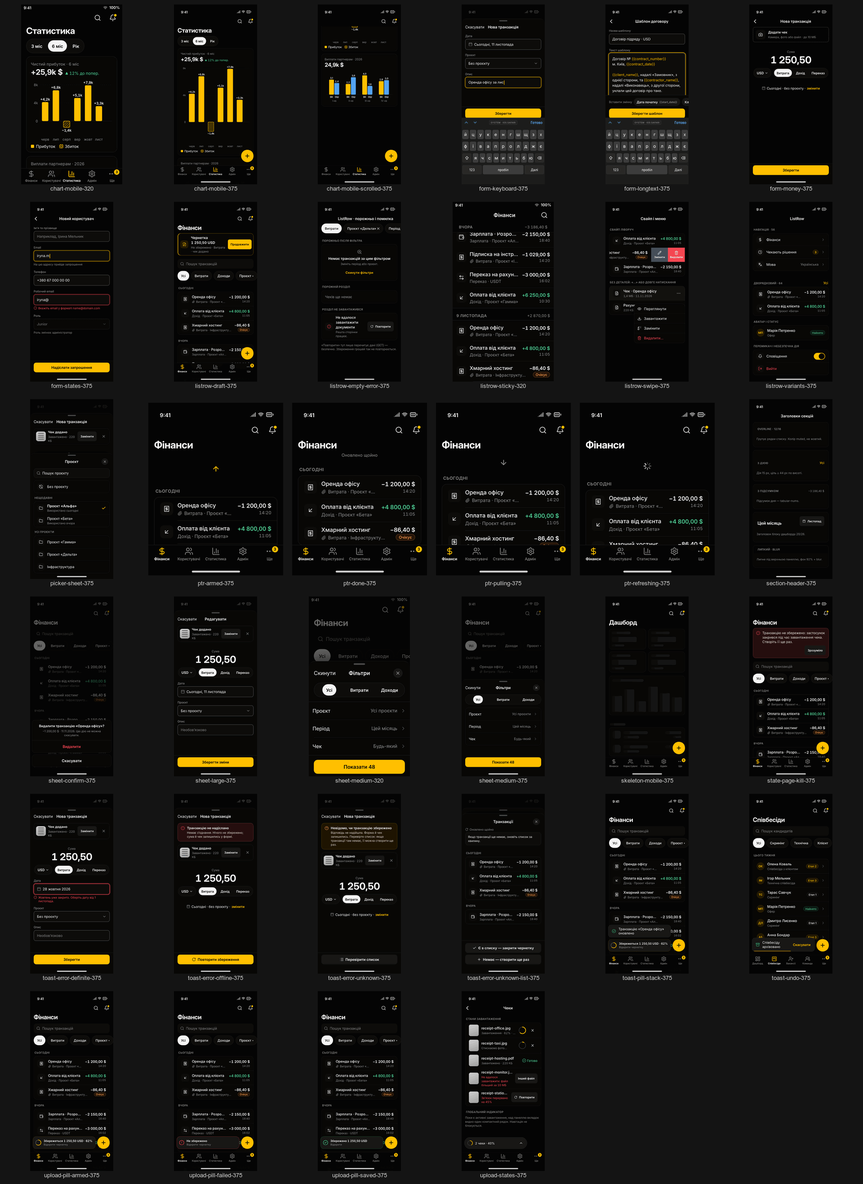
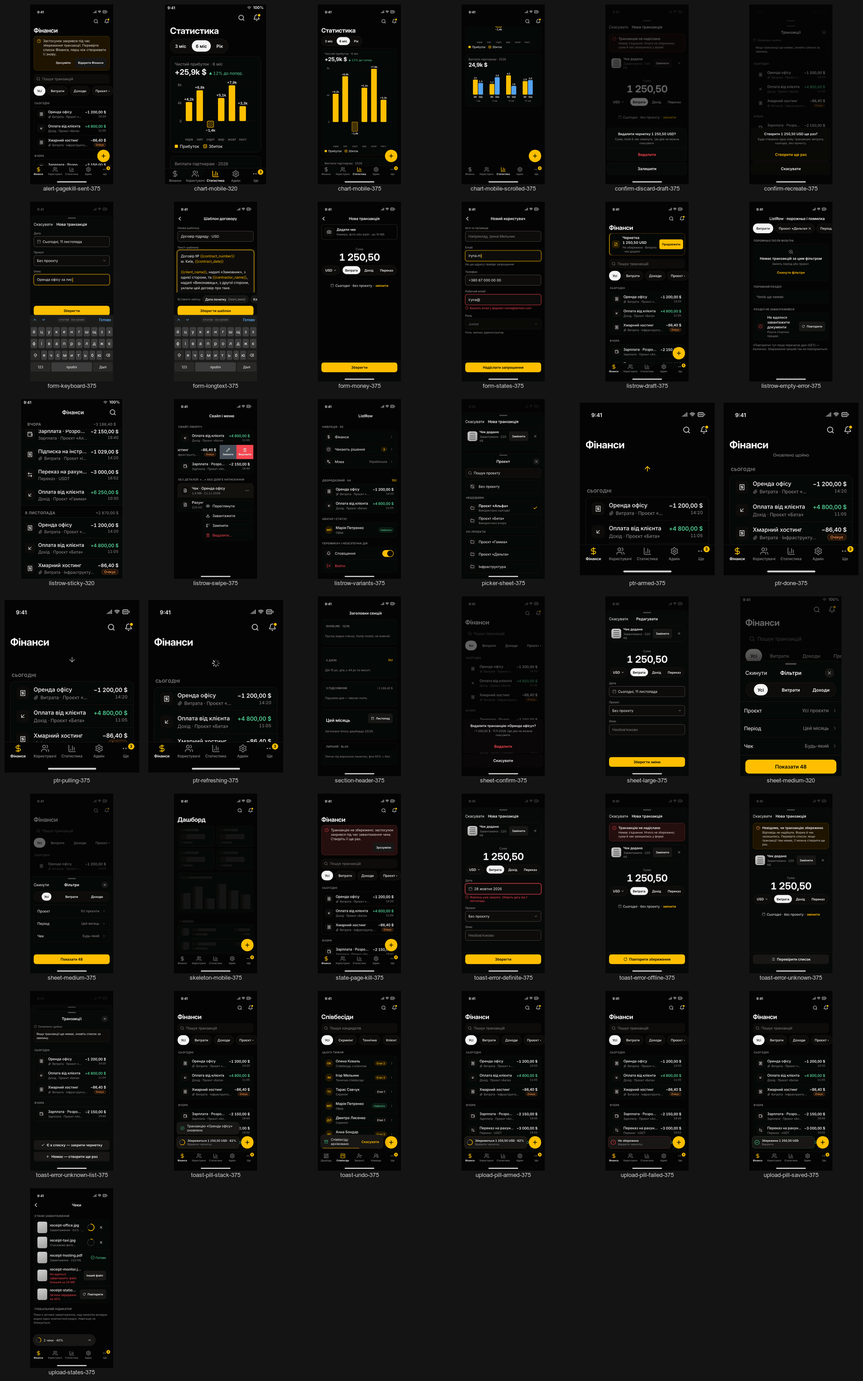
docs(design): page-kill marker phase, recreate + discard confirms
Fix round 5 (Master ruling on the fix4 page-kill concern):
- The page-kill marker is { t, phase: 'armed' | 'sent' }, still no amount,
  payload or receipt. Written armed on arm, switched to sent when the armed
  create is sent, removed on a definite result, disarm, «Є в списку»,
  explicit discard, or an acknowledged boot alert; an unknown outcome keeps
  it sent. foundation §11 splits the page-kill row into kill-while-armed and
  kill-while-sent; primitives and shell text follow the same meaning.
- New frames: alert-pagekill-sent-375 (check the list, no resubmit),
  confirm-recreate-375, confirm-discard-draft-375. Both confirms use the
  action-sheet confirm primitive (actionConfirm, now also behind
  sheet-confirm-375), 56 px rows, stacked above the open sheet.
- Primitives frame list at 55; phone contact sheet refreshed.

ac_verified: n/a (docs)

diff --git a/docs/design/foundation.md b/docs/design/foundation.md
@@ -351,24 +351,31 @@ reference widths below. Mobile-first: the base is mobile, scale up with `sm` / `
   «Зберегти після завантаження чека». A tap **freezes the payload** and arms. The table below is the
   single source; every frame and every other paragraph agrees with it.
 
-  | Event                                                                             | Button / pill / list show                                                                                                                                                                                                                                                                                                                                                                                               | What is sent                                                                                   | How the user leaves                                                                                                                                                         |
-  | --------------------------------------------------------------------------------- | ----------------------------------------------------------------------------------------------------------------------------------------------------------------------------------------------------------------------------------------------------------------------------------------------------------------------------------------------------------------------------------------------------------------------- | ---------------------------------------------------------------------------------------------- | --------------------------------------------------------------------------------------------------------------------------------------------------------------------------- |
-  | **Arm** (tap the primary while the receipt uploads)                               | Primary «Збережеться 1 250,50 USD після чека», «чек 62%» as a `progressbar`; one announcement «Збереження заплановано». Under it the 44 px text button «Не зберігати автоматично». The leading control reads **«Згорнути»** (`shell-v2/quick-add-txn-armed-375.png`, `-320.png`). Repeat taps on the primary are ignored: no toggle, no `aria-pressed`. A `localStorage` marker holding **only a timestamp** is written | Nothing yet; the payload is frozen in memory                                                   | «Згорнути», a drag down or a scrim tap all close the sheet and keep the save armed (next row)                                                                               |
-  | **Edit** (any field), **«Не зберігати автоматично»**, or the receipt upload fails | The primary returns to «Зберегти після завантаження чека»; one announcement «Автоматичне збереження вимкнено»; the leading control reads «Скасувати» again; the marker is removed                                                                                                                                                                                                                                       | Nothing; the upload continues                                                                  | Stays in the form; the draft is kept                                                                                                                                        |
-  | **Dismiss** while armed                                                           | The sheet closes. The upload pill reads «Збережеться 1 250,50 USD · 62%» · «Відкрити чернетку» (`primitives-v2/upload-pill-armed-375.png`); a toast stacks above it (`toast-pill-stack-375.png`)                                                                                                                                                                                                                        | Nothing until the receipt reaches 100%; then exactly **one** create, and the marker is removed | A pill tap or «+» reopens the same draft                                                                                                                                    |
-  | **Success**                                                                       | Sheet open: it closes. The pill holds «Збережено 1 250,50 USD · Відкрити» **until tapped** (`upload-pill-saved-375.png`); one announcement «Транзакцію збережено». The row appears in the list after the server confirms                                                                                                                                                                                                | The one create, 2xx                                                                            | Pill tap opens the transaction; the pill and the draft are gone                                                                                                             |
-  | **Definite failure** (422 or any definite case above)                             | Sheet open: the inline alert from the failure rules. Sheet closed: the pill holds «Не збережено · Відкрити чернетку» **until tapped** (`upload-pill-failed-375.png`); one announcement «Транзакцію не збережено». The list shows the pinned draft row                                                                                                                                                                   | The one create; wrote nothing                                                                  | Pill tap reopens the draft with the alert; or an explicit discard                                                                                                           |
-  | **Unknown outcome**                                                               | Sheet open: the unknown alert. Sheet closed: the pill holds «Результат невідомий · Відкрити чернетку» until tapped; the list shows the pinned draft row (`listrow-draft-375.png`). Inside the draft, «Перевірити список» opens the refetched list with the two exits (`toast-error-unknown-list-375.png`)                                                                                                               | The one create; it may have committed. **Nothing is re-sent automatically**                    | «Є в списку — закрити чернетку»: the draft closes, nothing is sent. «Немає — створити ще раз»: the confirm «Створити 1 250,50 USD ще раз?», then exactly **one** new create |
-  | **Page kill** while armed (tab closed, OS kill, crash)                            | At the next boot the marker is found: a persistent inline alert above the first screen «Транзакцію не збережено: застосунок закрився під час завантаження чека. Створіть її ще раз.» with «Зрозуміло» (`state-page-kill-375.png`). It names no amount: the marker holds none                                                                                                                                            | Nothing: the request never left (the marker is removed the moment the create is sent)          | «Зрозуміло» removes the marker and the alert                                                                                                                                |
-  | **Explicit discard** (from the draft, or before a new form while one exists)      | A confirm that names the amount: «Видалити чернетку 1 250,50 USD?» with «Видалити» and «Залишити»                                                                                                                                                                                                                                                                                                                       | Nothing; the upload is aborted                                                                 | «Видалити»: the draft, its pill, its row and the marker are gone. «Залишити»: back to the draft                                                                             |
+  | Event                                                                             | Button / pill / list show                                                                                                                                                                                                                                                                                                                                                                                                                       | What is sent                                                                                                                      | How the user leaves                                                                                                                                                                                                                                                        |
+  | --------------------------------------------------------------------------------- | ----------------------------------------------------------------------------------------------------------------------------------------------------------------------------------------------------------------------------------------------------------------------------------------------------------------------------------------------------------------------------------------------------------------------------------------------- | --------------------------------------------------------------------------------------------------------------------------------- | -------------------------------------------------------------------------------------------------------------------------------------------------------------------------------------------------------------------------------------------------------------------------- |
+  | **Arm** (tap the primary while the receipt uploads)                               | Primary «Збережеться 1 250,50 USD після чека», «чек 62%» as a `progressbar`; one announcement «Збереження заплановано». Under it the 44 px text button «Не зберігати автоматично». The leading control reads **«Згорнути»** (`shell-v2/quick-add-txn-armed-375.png`, `-320.png`). Repeat taps on the primary are ignored: no toggle, no `aria-pressed`. A `localStorage` marker `{ t, phase: 'armed' }` is written (the page-kill marker below) | Nothing yet; the payload is frozen in memory                                                                                      | «Згорнути», a drag down or a scrim tap all close the sheet and keep the save armed (next row)                                                                                                                                                                              |
+  | **Edit** (any field), **«Не зберігати автоматично»**, or the receipt upload fails | The primary returns to «Зберегти після завантаження чека»; one announcement «Автоматичне збереження вимкнено»; the leading control reads «Скасувати» again; the marker is removed (no save is pending)                                                                                                                                                                                                                                          | Nothing; the upload continues                                                                                                     | Stays in the form; the draft is kept                                                                                                                                                                                                                                       |
+  | **Dismiss** while armed                                                           | The sheet closes. The upload pill reads «Збережеться 1 250,50 USD · 62%» · «Відкрити чернетку» (`primitives-v2/upload-pill-armed-375.png`); a toast stacks above it (`toast-pill-stack-375.png`)                                                                                                                                                                                                                                                | Nothing until the receipt reaches 100%; then exactly **one** create; the marker switches to `phase: 'sent'` the moment it is sent | A pill tap or «+» reopens the same draft                                                                                                                                                                                                                                   |
+  | **Success**                                                                       | Sheet open: it closes. The pill holds «Збережено 1 250,50 USD · Відкрити» **until tapped** (`upload-pill-saved-375.png`); one announcement «Транзакцію збережено». The row appears in the list after the server confirms                                                                                                                                                                                                                        | The one create, 2xx; the marker is removed                                                                                        | Pill tap opens the transaction; the pill and the draft are gone                                                                                                                                                                                                            |
+  | **Definite failure** (422 or any definite case above)                             | Sheet open: the inline alert from the failure rules. Sheet closed: the pill holds «Не збережено · Відкрити чернетку» **until tapped** (`upload-pill-failed-375.png`); one announcement «Транзакцію не збережено». The list shows the pinned draft row                                                                                                                                                                                           | The one create; wrote nothing; the marker is removed                                                                              | Pill tap reopens the draft with the alert; or an explicit discard                                                                                                                                                                                                          |
+  | **Unknown outcome**                                                               | Sheet open: the unknown alert. Sheet closed: the pill holds «Результат невідомий · Відкрити чернетку» until tapped; the list shows the pinned draft row (`listrow-draft-375.png`). Inside the draft, «Перевірити список» opens the refetched list with the two exits (`toast-error-unknown-list-375.png`)                                                                                                                                       | The one create; it may have committed. **Nothing is re-sent automatically**                                                       | «Є в списку — закрити чернетку»: the draft closes, nothing is sent, the marker is removed. «Немає — створити ще раз»: the confirm «Створити 1 250,50 USD ще раз?», (`confirm-recreate-375.png`), then exactly **one** new create; the marker stays `sent` until its result |
+  | **Page kill while armed** (tab closed, OS kill, crash before the create is sent)  | The marker reads `phase: 'armed'`. At the next boot a persistent inline alert above the first screen «Транзакцію не збережено: застосунок закрився під час завантаження чека. Створіть її ще раз.» with «Зрозуміло» (`state-page-kill-375.png`). It names no amount: the marker holds none                                                                                                                                                      | Nothing: the request never left                                                                                                   | «Зрозуміло» removes the marker and the alert                                                                                                                                                                                                                               |
+  | **Page kill while sent** (the create left; no result reached the page)            | The marker reads `phase: 'sent'`. At the next boot a persistent inline alert «Застосунок закрився під час збереження транзакції. Перевірте список Фінанси, перш ніж створювати її знову.» with «Відкрити Фінанси» and «Зрозуміло» (`alert-pagekill-sent-375.png`). It names no amount and **offers no resubmit**                                                                                                                                | The one create; it may have committed. Nothing is re-sent                                                                         | «Відкрити Фінанси» opens the refetched Фінанси list (on that tab: refetches it and moves focus to it) and removes the marker; «Зрозуміло» removes the marker and the alert                                                                                                 |
+  | **Explicit discard** (from the draft, or before a new form while one exists)      | A confirm that names the amount: «Видалити чернетку 1 250,50 USD?» with «Видалити» and «Залишити» (`primitives-v2/confirm-discard-draft-375.png`)                                                                                                                                                                                                                                                                                               | Nothing; the upload is aborted                                                                                                    | «Видалити»: the draft, its pill, its row and the marker are gone. «Залишити»: back to the draft                                                                                                                                                                            |
   - **One money draft per session.** While an armed, failed or unknown-outcome draft exists, «+» (the
     FAB and the quick-add action) **reopens that draft**. A new form opens only after the discard
     confirm above, which names the amount.
   - **The result stays until acknowledged.** A sheet is **never opened automatically** over what the user
     is doing; the pill holds the result. A toast timer **pauses while the page is hidden**.
   - **No `visibilitychange` disarm:** backgrounding keeps the save armed. A page kill is **reported, not
-    hidden** (the page-kill row). **Finance data is never persisted client-side:** the marker is a
-    timestamp only, never an amount, a payload or a receipt.
+    hidden** (the two page-kill rows). **Finance data is never persisted client-side:** the marker is
+    `{ t: <timestamp>, phase: 'armed' | 'sent' }`, never an amount, a payload or a receipt.
+  - **The page-kill marker has one meaning everywhere.** It is written as `armed` on arm and switched
+    to `sent` the moment the armed create is sent; «Створити ще раз» keeps it `sent`. It is removed on
+    a definite result (success, definite failure), on disarm (no save is pending), on «Є в списку —
+    закрити чернетку», on an explicit discard, and when its boot alert is acknowledged. An unknown
+    outcome keeps it `sent`. At boot, `armed` shows the «не збережено» alert; `sent` shows the
+    «перевірте список» alert, which never offers a resubmit (the create may have committed).
   - The draft row and the pill are one draft, drawn twice: the row in Фінанси, the pill on every tab.
 
 - **Pull-to-refresh** (spec §4.2) is an in-app gesture on the list scroller only: it refetches that
@@ -378,7 +385,7 @@ reference widths below. Mobile-first: the base is mobile, scale up with `sm` / `
 - **Filters live in the URL.** No saved filter views.
 - **Search covers loaded data only** (and Cmd+K navigation / page actions). No cross-entity server search.
 - **Uploads** are in-memory and non-blocking with a global progress indicator. Nothing survives an app
-  close. An armed money save lost this way is reported at the next boot (the page-kill row above).
+  close. An armed money save lost this way is reported at the next boot (the page-kill rows above).
 - **Keyboard (desktop):** Tab order follows reading order; Enter submits; Esc closes; single-key
   shortcuts (including `[` for the sidebar collapse) can be turned off in the `?` sheet (stored on the
   device, SC 2.1.4) and never fire inside a text field.

diff --git a/docs/design/screens/_foundation/primitives-v2.md b/docs/design/screens/_foundation/primitives-v2.md
@@ -191,7 +191,8 @@ under the primary; any field edit also disarms. While armed the leading control 
 it closes the sheet and the save stays armed; a drag down and a scrim tap do the same. On the closed
 sheet the global upload pill carries the save; the result then stays in the pill until tapped
 (`upload-pill-saved-375`, `upload-pill-failed-375`); a sheet never opens by itself. A page kill is
-reported at the next boot (`state-page-kill-375`). The amount never truncates: at 320 it steps 44 →
+reported at the next boot by the marker's phase (`state-page-kill-375` armed, `alert-pagekill-sent-375`
+sent). The amount never truncates: at 320 it steps 44 →
 34 px, the armed label wraps to two lines, and the sheet title truncates (`quick-add-txn-armed-320`).
 
 ---
@@ -248,7 +249,14 @@ does the undo toast (`upload-pill-768`: centred above the bottom edge;
 so only when the user tries to close a sheet with uploads running, and an armed money save lost this
 way is reported at the next boot (`state-page-kill-375`: a persistent inline alert «Транзакцію не
 збережено: застосунок закрився під час завантаження чека. Створіть її ще раз.» with «Зрозуміло»; the
-`localStorage` marker behind it holds only a timestamp).
+`localStorage` marker behind it is `{ t, phase }`, never an amount). A kill **after the create was
+sent** shows instead «Застосунок закрився під час збереження транзакції. Перевірте список Фінанси, перш
+ніж створювати її знову.» with «Відкрити Фінанси» and «Зрозуміло» and no resubmit
+(`alert-pagekill-sent-375`). The phases and when the marker is cleared: foundation §11. **Confirms**
+use the action-sheet confirm (`sheet-confirm-375`; `actionConfirm` in the mockup sources), two 56 px
+rows, stacked above an open sheet: `confirm-recreate-375` («Створити 1 250,50 USD ще раз?» ·
+«Створити ще раз» · «Скасувати», from the unknown-outcome exit) and `confirm-discard-draft-375`
+(«Видалити чернетку 1 250,50 USD?» · «Видалити» · «Залишити», the one money draft).
 
 **Money pill** (one 56 px pill, three states, same slot): armed «Збережеться 1 250,50 USD · 62%» /
 «Відкрити чернетку» (`upload-pill-armed-375`); saved «Збережено 1 250,50 USD» / «Відкрити»
@@ -302,11 +310,11 @@ instant, sheet 280 ms up / 150 ms down, desktop 150 ms crossfade, reduced motion
 `sheet-panel-1440` · `sheet-confirm-dialog-1024` · `listrow-table-desktop` · `toast-undo-375` ·
 `toast-undo-768` · `toast-undo-1440` · `toast-error-definite-375` · `toast-error-offline-375` ·
 `toast-error-unknown-375` · `toast-error-unknown-list-375` · `upload-states-375` · `upload-pill-armed-375` ·
-`upload-pill-saved-375` · `upload-pill-failed-375` · `toast-pill-stack-375` · `state-page-kill-375` ·
+`upload-pill-saved-375` · `upload-pill-failed-375` · `toast-pill-stack-375` · `state-page-kill-375` · `alert-pagekill-sent-375` · `confirm-recreate-375` · `confirm-discard-draft-375` ·
 `listrow-draft-375` · `upload-pill-768` · `upload-pill-1440` · `skeleton-mobile-375` · `skeleton-768` · `skeleton-1440` ·
 `skeleton-table-desktop` · `chart-mobile-375` · `chart-mobile-scrolled-375` · `chart-mobile-320` ·
 `chart-desktop` · `ptr-pulling-375` · `ptr-armed-375` · `ptr-refreshing-375` · `ptr-done-375` ·
-`transition-storyboard` (52 frames). Contact sheets: `_contact-sheet.png` (phones), `_contact-sheet-wide.png` (768 / 1024 /
+`transition-storyboard` (55 frames). Contact sheets: `_contact-sheet.png` (phones), `_contact-sheet-wide.png` (768 / 1024 /
 1440 and boards), `_contact-sheet-detail.png` (`chart-desktop` and `transition-storyboard` at native
 size).
 

diff --git a/docs/design/screens/_foundation/shell-v2.md b/docs/design/screens/_foundation/shell-v2.md
@@ -103,7 +103,7 @@ tab bar holds **4 destinations + «Ще»**. «Ще» holds everything else, gro
   request is sent, so a form without an idempotency key still sends exactly once. The result **stays in
   the pill until tapped** («Збережено 1 250,50 USD · Відкрити» or «Не збережено · Відкрити чернетку»);
   no sheet opens by itself. Backgrounding the app does not disarm; a page kill is reported at the next
-  boot. **One money draft per session:** while a draft exists, «+» reopens it. The full lifecycle is
+  boot by the marker's phase (`armed`: not saved; `sent`: check the list, no resubmit). **One money draft per session:** while a draft exists, «+» reopens it. The full lifecycle is
   the state table in foundation §11. An upload failure disarms the save and shows its error on the
   receipt card; the user may replace the file or remove it («✕ Видалити чек») and save without a
   receipt.
